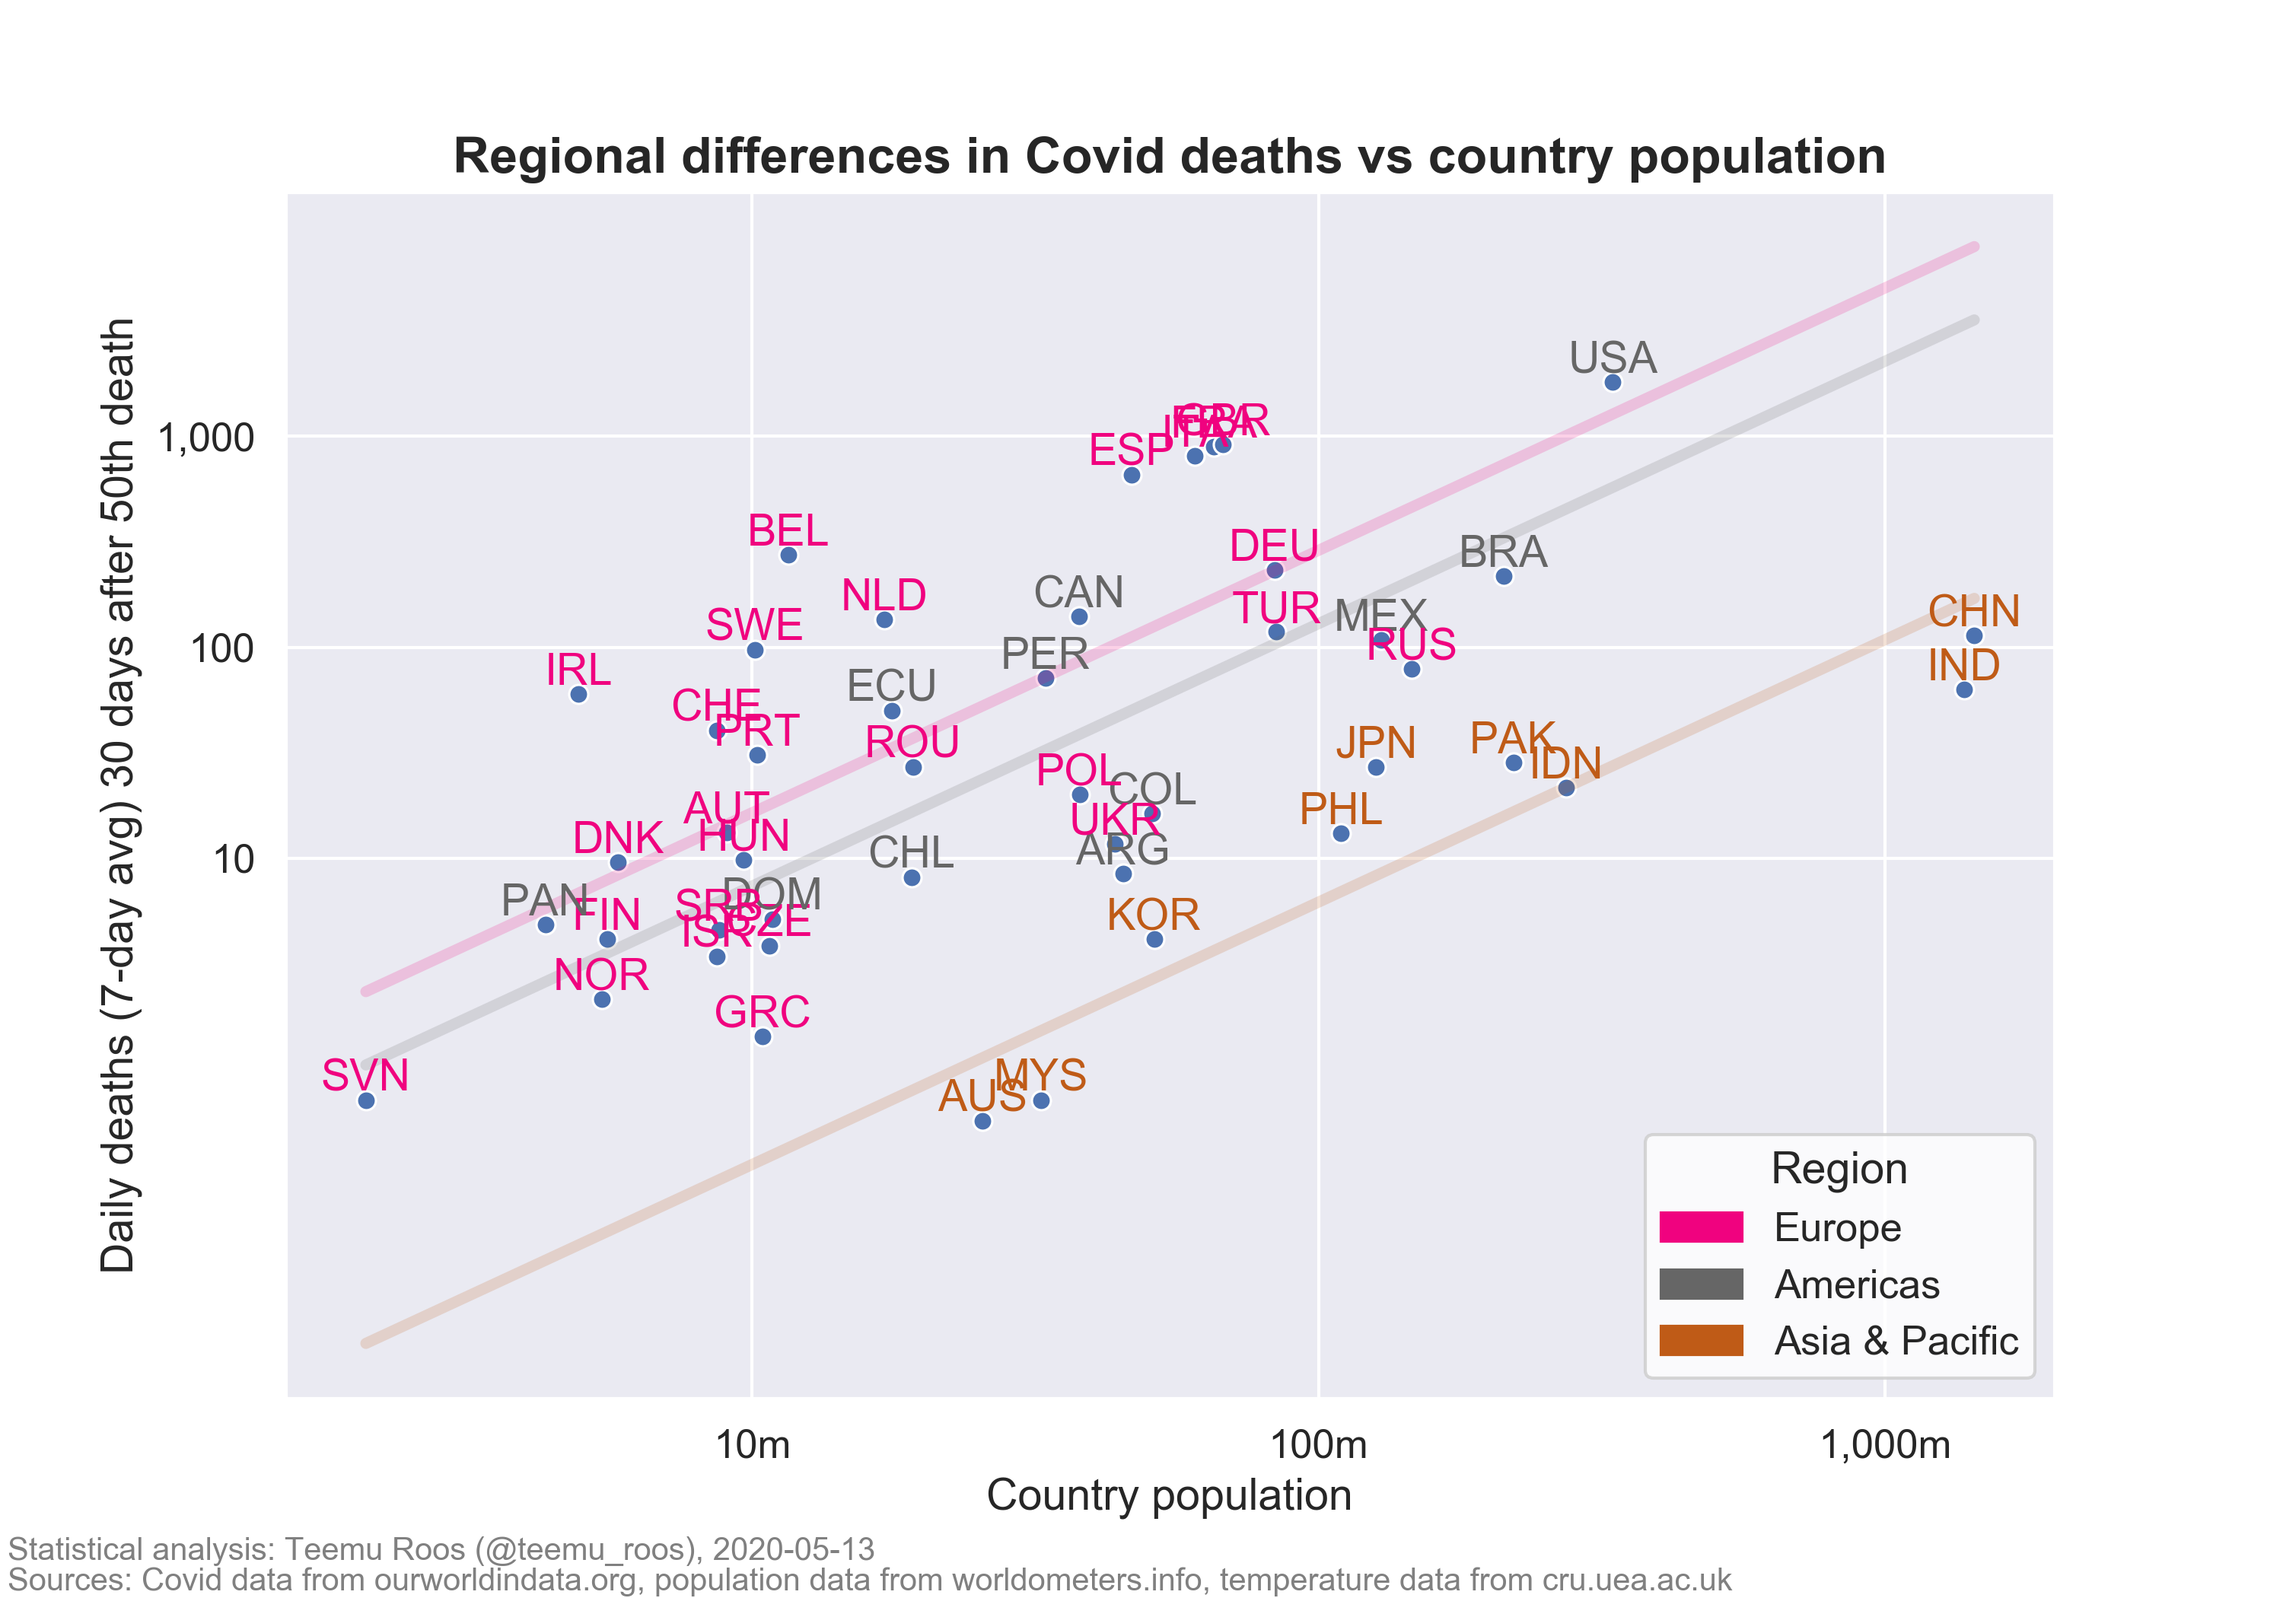
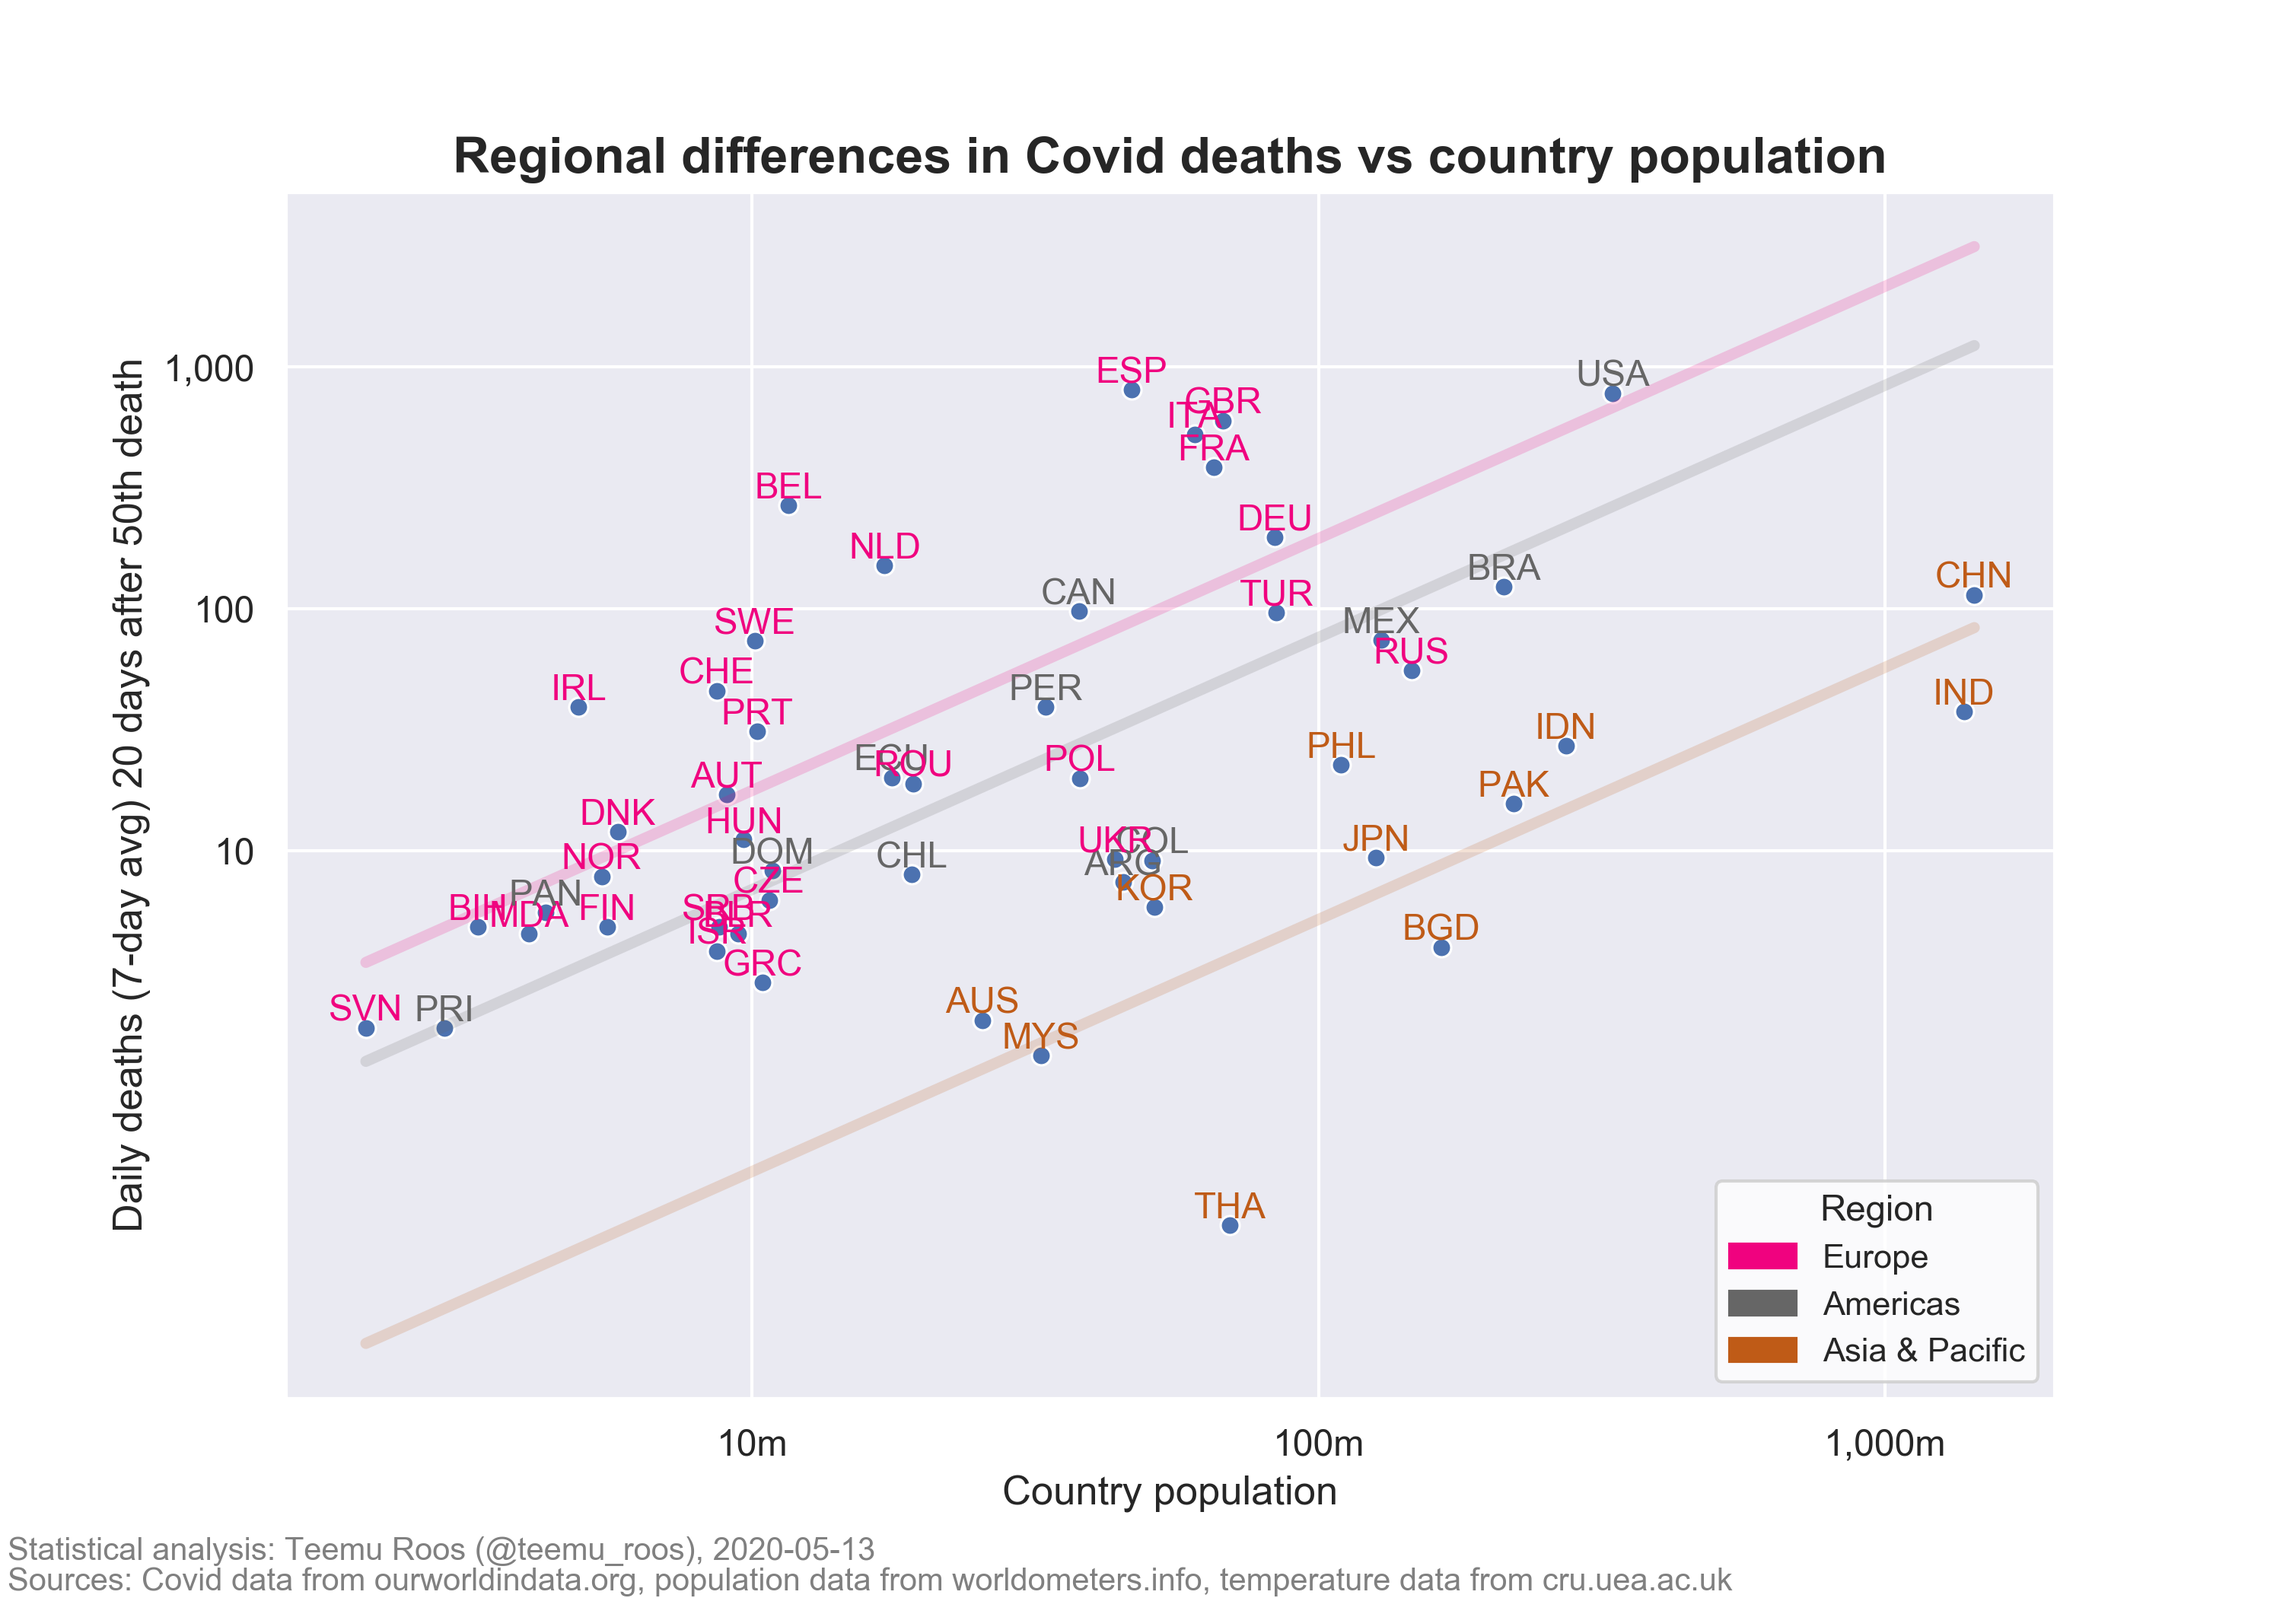
reduced font size to fit more countries

diff --git a/country_size_deaths.py b/country_size_deaths.py
@@ -66,7 +66,7 @@ isocode = {}
 day0 = {}
 region = {}
 startdeaths = 50
-lag = 30
+lag = 20
 selectorlag = lag
 ddayX = {}
 
@@ -179,7 +179,7 @@ else:
     width = 12
 f, ax = plt.subplots(figsize=(width, 7))
 sns.set_style("dark")
-sns.set(font_scale=1.15)
+sns.set(font_scale=0.95)
 p = sns.scatterplot(x = x, y = y, ax=ax) #, size=pops, sizes=(10,200))
 
 ax.set(xscale='log', yscale='linear')
